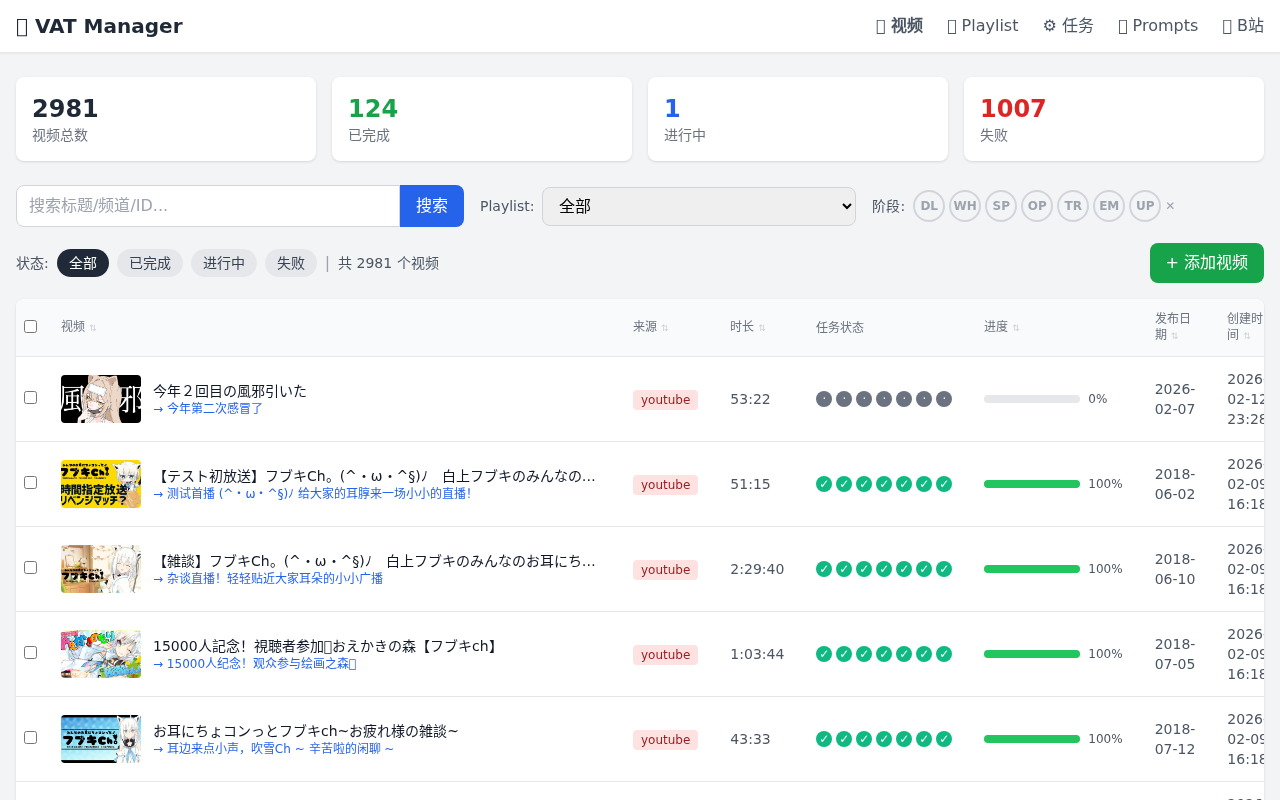
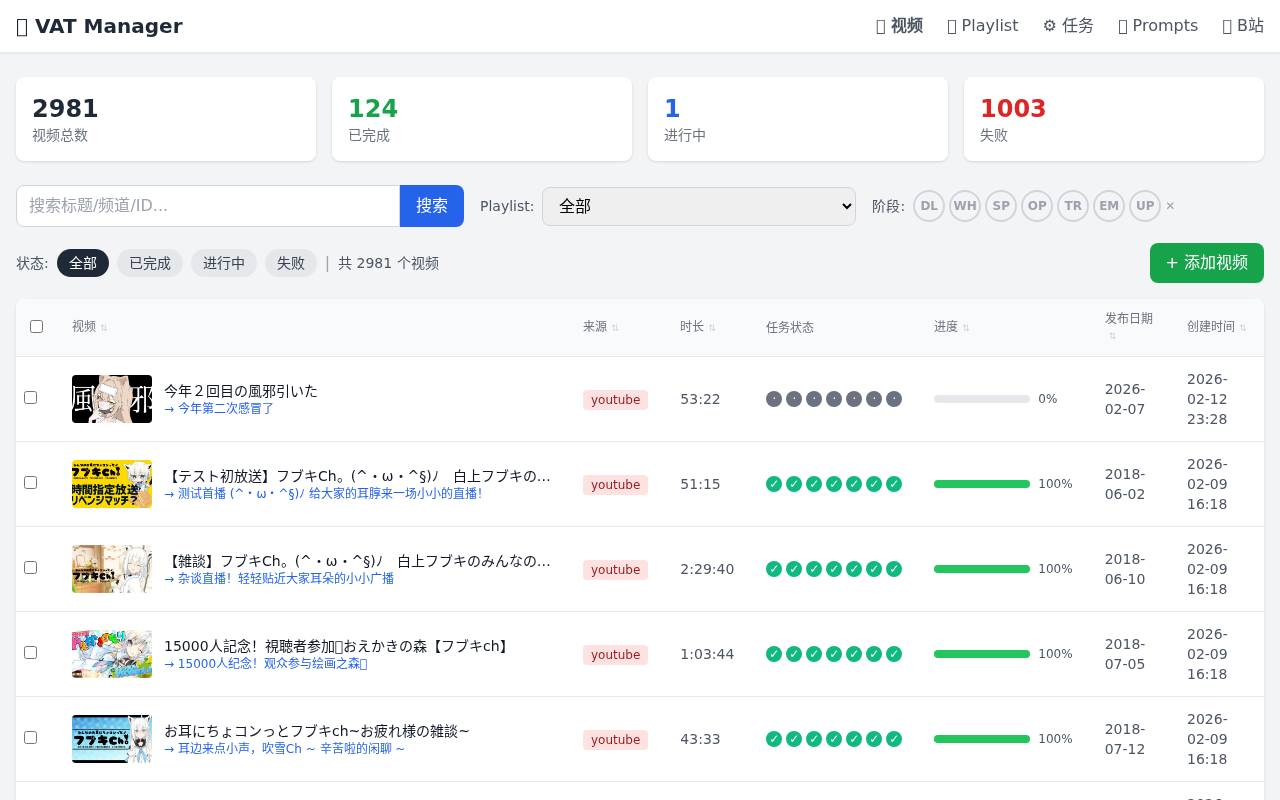
fix: Playlist视频数量显示+缩略图丢失+文档更新
Bug 修复:
- playlist_service.py: 同步后用关联表实际COUNT更新video_count，
  而非yt-dlp本次返回的entries数量（增量同步时会偏小）
- app.py: Playlist列表页展示时优先使用batch_get_playlist_progress
  的total（关联表COUNT），不依赖playlists表中可能过时的video_count
- youtube.py: download()返回的metadata补上thumbnail字段
- executor.py: 下载步骤改为merge metadata而非replace，保留
  playlist sync阶段写入的thumbnail等字段

文档更新:
- docs/known_issues.md: 新增「四、WebUI与数据问题」记录4个已修复bug
- 更新截图（缩略图恢复后+视频数量修复后）

diff --git a/vat/web/app.py b/vat/web/app.py
@@ -273,12 +273,14 @@ async def playlists_page(request: Request):
     playlist_list = []
     for pl in playlists:
         progress = progress_map.get(pl.id, {'total': 0, 'completed': 0, 'failed': 0})
+        # 使用关联表实际数量（batch_get_playlist_progress 从 playlist_videos COUNT），
+        # 而非 playlists 表中可能过时的 video_count 字段
         total = progress.get('total', 0) or (pl.video_count or 0)
         playlist_list.append({
             "id": pl.id,
             "title": pl.title,
             "channel": pl.channel,
-            "video_count": pl.video_count or 0,
+            "video_count": total,
             "completed": progress.get('completed', 0),
             "failed": progress.get('failed', 0),
             "progress_percent": int(progress.get('completed', 0) / max(total, 1) * 100),

diff --git a/vat/services/playlist_service.py b/vat/services/playlist_service.py
@@ -170,10 +170,13 @@ class PlaylistService:
                         callback(f"[{index}/{total_videos}] 新增: {video.title[:50]}...")
         
         # 更新 Playlist 信息
+        # video_count 使用关联表实际数量，而非 yt-dlp 本次返回的 entries 数量
+        # （增量同步时 entries 只包含本次获取到的视频，不代表全量）
+        actual_video_count = len(self.db.get_playlist_video_ids(playlist_id))
         self.db.update_playlist(
             playlist_id,
             title=playlist_title,
-            video_count=total_videos,
+            video_count=actual_video_count,
             last_synced_at=datetime.now()
         )
         

diff --git a/vat/pipeline/executor.py b/vat/pipeline/executor.py
@@ -504,8 +504,9 @@ class VideoProcessor:
                 if self._progress_tracker:
                     self._progress_tracker.report_event(ProgressEvent.DOWNLOAD_VIDEO_DONE, "视频下载完成")
                 
-                # 更新视频信息
-                metadata = result.get('metadata', {})
+                # 更新视频信息（merge，保留 playlist sync 阶段写入的字段如 thumbnail）
+                existing_metadata = self.video.metadata or {}
+                metadata = {**existing_metadata, **result.get('metadata', {})}
                 title = result.get('title', '')
                 
                 # 处理 YouTube 字幕（如果有）

diff --git a/vat/downloaders/youtube.py b/vat/downloaders/youtube.py
@@ -197,6 +197,7 @@ class YouTubeDownloader(BaseDownloader):
                     'duration': duration,
                     'uploader': uploader,
                     'upload_date': upload_date,
+                    'thumbnail': info.get('thumbnail', ''),
                     'url': url,
                     'available_subtitles': available_subs,
                     'available_auto_subtitles': available_auto_subs,

diff --git a/docs/known_issues.md b/docs/known_issues.md
@@ -80,3 +80,43 @@ Reflect 不是多次 LLM 调用，而是单次调用中输出 3 个字段（init
 - **涉及文件**：`vat/resources/subtitle_style/default.txt`
 
 ---
+
+## 四、WebUI 与数据问题
+
+### Web-1: Playlist 视频数量显示不正确 ✅ 已修复
+
+- **现象**：Playlist 列表页的「视频数」列显示旧值（如 181），实际关联表中有 2948 条
+- **根因**：
+  1. `playlist_service.py` 同步时用 `len(entries)`（yt-dlp 本次返回数）更新 `video_count`，增量同步时该值只包含本次获取到的视频
+  2. `app.py` 展示时直接使用 `pl.video_count`（playlists 表中的陈旧字段）
+- **修复**：
+  1. 同步完成后用关联表实际 COUNT 更新 `video_count`
+  2. 展示时优先使用 `batch_get_playlist_progress` 返回的 `total`（来自关联表 COUNT）
+- **涉及文件**：`vat/services/playlist_service.py`、`vat/web/app.py`
+
+### Web-2: 视频缩略图丢失 ✅ 已修复
+
+- **现象**：部分视频（约 173 个）缩略图不显示，metadata 中 `thumbnail` key 缺失
+- **根因**：
+  1. `youtube.py` 的 `download()` 返回的 metadata 未包含 `thumbnail` 字段
+  2. `executor.py` 下载步骤用下载器返回的 metadata **整体替换**了原有 metadata，丢弃了 playlist sync 时写入的 `thumbnail`
+- **修复**：
+  1. 下载器返回的 metadata 中加入 `thumbnail: info.get('thumbnail', '')`
+  2. 执行器下载步骤改为 merge metadata（`{**existing, **new}`）而非 replace
+- **涉及文件**：`vat/downloaders/youtube.py`、`vat/pipeline/executor.py`
+
+### Web-3: Playlist 总览页加载慢 ✅ 已修复
+
+- **现象**：Playlist 列表页加载约 3.1 秒
+- **根因**：N+1 查询——为每个 Playlist 逐视频查询 task 状态计算进度
+- **修复**：实现 `batch_get_playlist_progress` 单次 SQL 批量计算所有 Playlist 进度，加载时间降至 0.09 秒
+- **涉及文件**：`vat/database.py`、`vat/web/app.py`
+
+### Web-4: Playlist 详情页加载慢 ✅ 已修复
+
+- **现象**：2948 个视频的 Playlist 详情页加载约 3 秒
+- **根因**：对全量视频查询详细进度（即使只显示当前页 100 条）
+- **修复**：仅对当前页视频查询详细进度，全量视频用轻量 SQL 判断 pending/unavailable 状态
+- **涉及文件**：`vat/web/app.py`
+
+---
